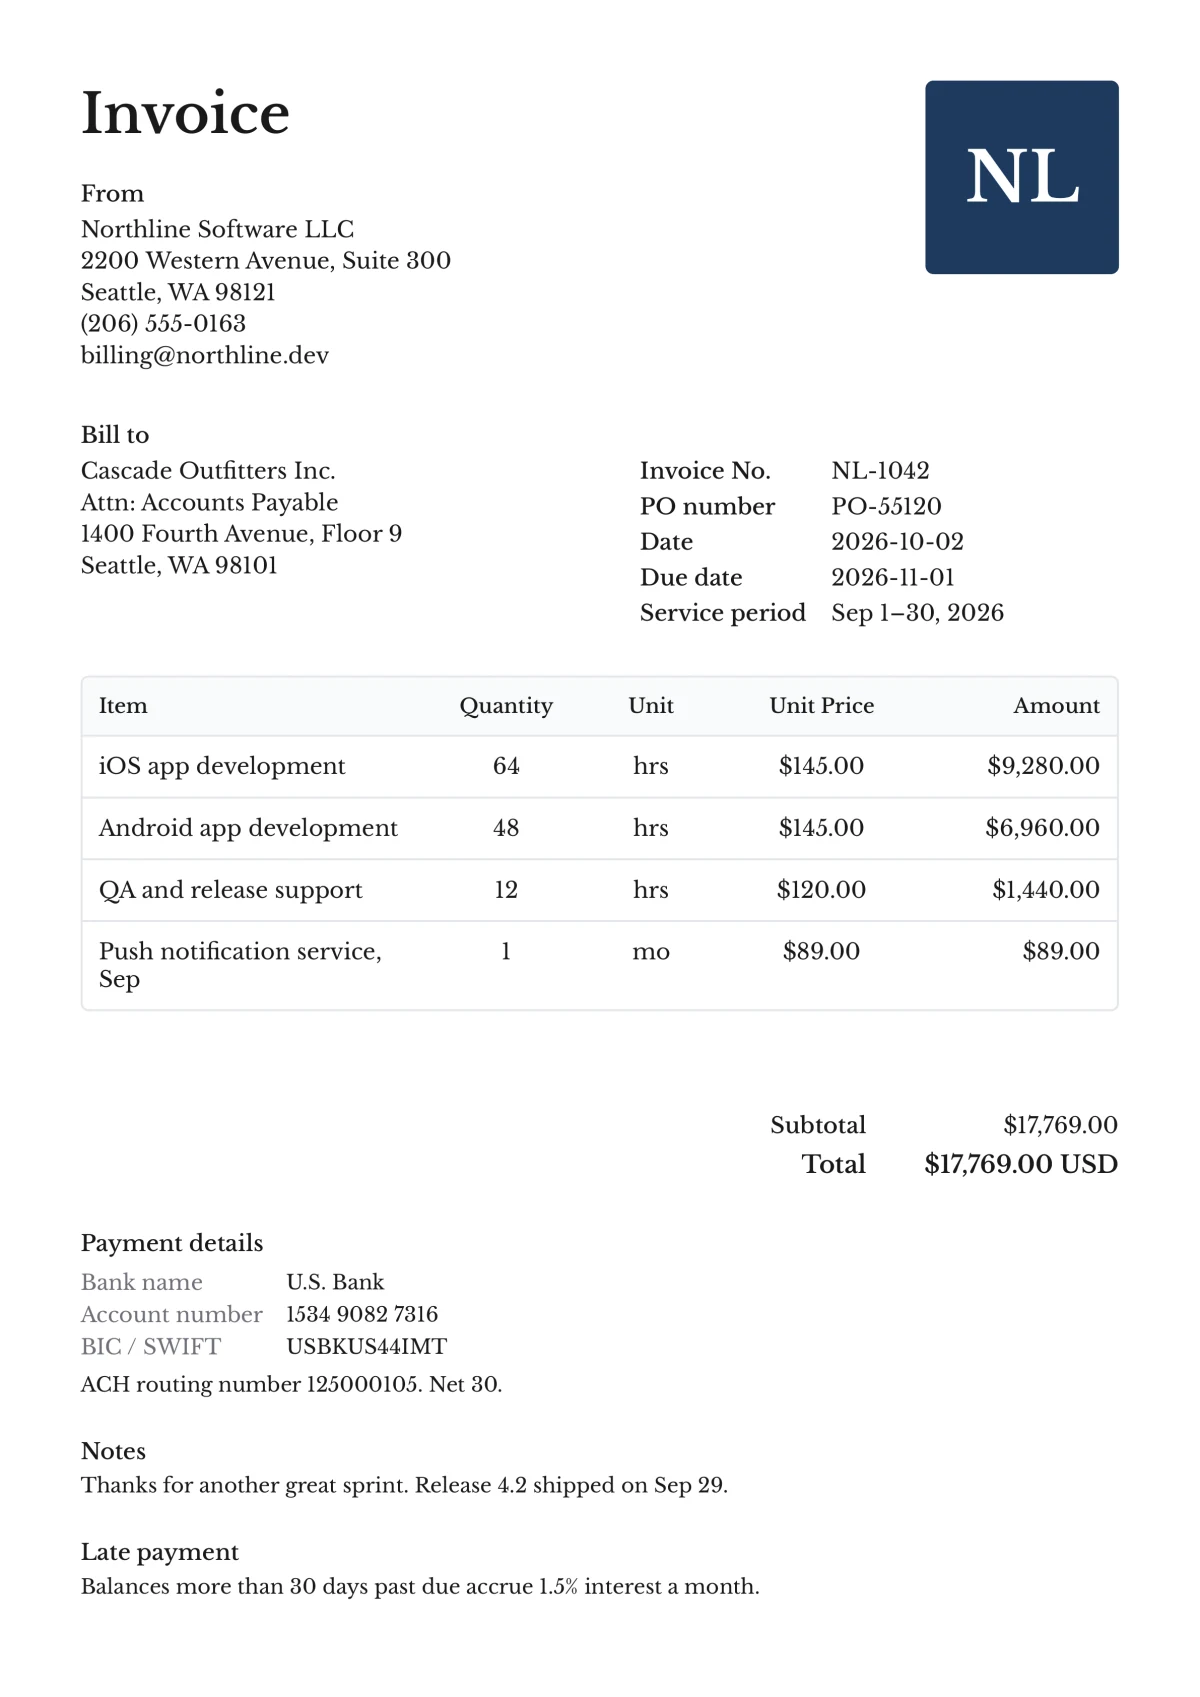
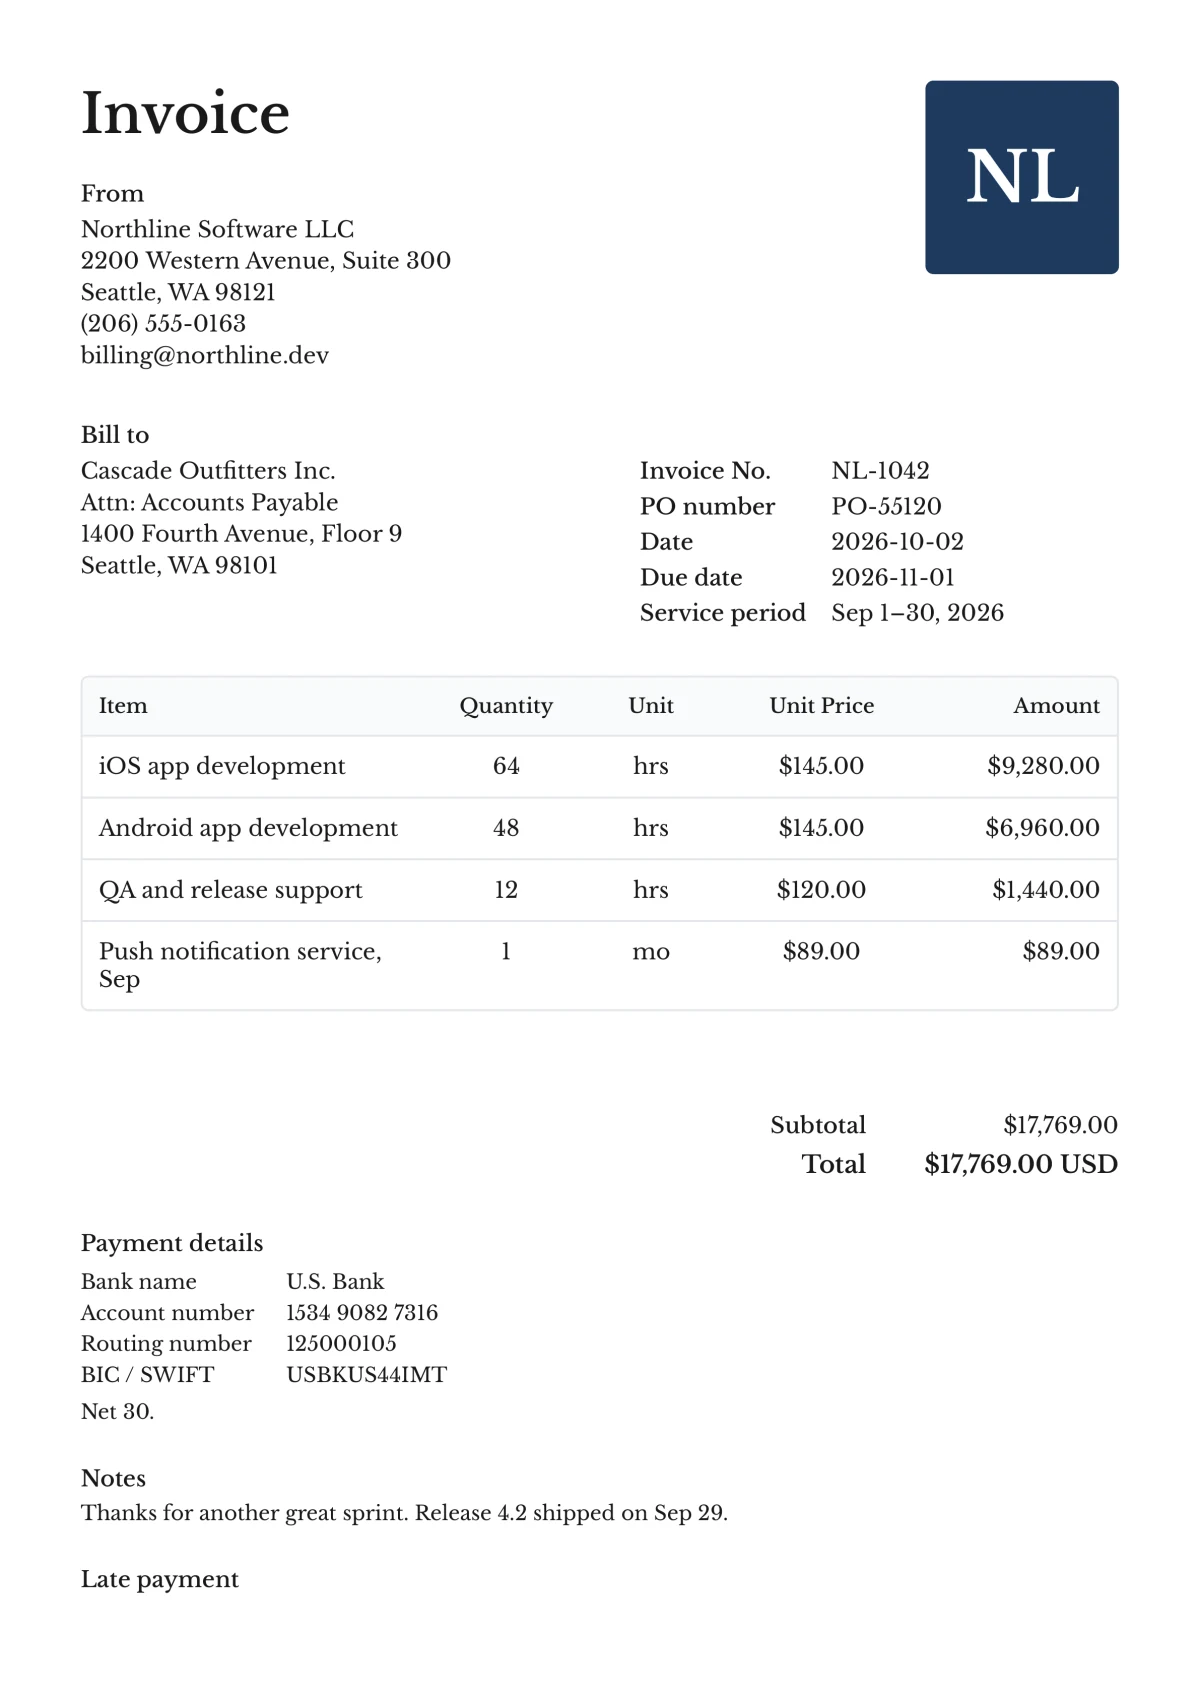
Add routing number to payment details

Changed region(s): [[0.0617, 0.7496, 0.6167, 0.9369]]

diff --git a/components/home/editor-preview.tsx b/components/home/editor-preview.tsx
@@ -57,7 +57,12 @@ type SampleInvoice = {
   }[];
   discountPercentage: number;
   taxPercentage: number;
-  payment: { bankName: string; accountNumber: string; bic: string };
+  payment: {
+    bankName: string;
+    accountNumber: string;
+    routingNumber: string;
+    bic: string;
+  };
   paymentInstructions: string;
   font: InvoiceFont;
   currencyCode: string;
@@ -86,10 +91,10 @@ export const HERO_SAMPLE: SampleInvoice = {
   payment: {
     bankName: "JPMorgan Chase Bank, N.A.",
     accountNumber: "483920175",
+    routingNumber: "021000021",
     bic: "CHASUS33"
   },
-  paymentInstructions:
-    "ACH routing number 021000021. Payment due within 30 days.",
+  paymentInstructions: "Payment due within 30 days.",
   font: "geist",
   currencyCode: "USD"
 };
@@ -126,9 +131,10 @@ export const TRY_IT_SAMPLE: SampleInvoice = {
   payment: {
     bankName: "Wells Fargo Bank, N.A.",
     accountNumber: "7429183056",
+    routingNumber: "111900659",
     bic: "WFBIUS6S"
   },
-  paymentInstructions: "ACH routing number 111900659. Net 15.",
+  paymentInstructions: "Net 15.",
   font: "geist",
   currencyCode: "USD"
 };
@@ -159,9 +165,10 @@ export const FILL_SAMPLE: SampleInvoice = {
   payment: {
     bankName: "Citibank, N.A.",
     accountNumber: "40871236",
+    routingNumber: "271070801",
     bic: "CITIUS33"
   },
-  paymentInstructions: "ACH routing number 271070801. Net 30.",
+  paymentInstructions: "Net 30.",
   font: "geist",
   currencyCode: "USD"
 };
@@ -192,9 +199,10 @@ export const KEEP_SAMPLE: SampleInvoice = {
   payment: {
     bankName: "U.S. Bank",
     accountNumber: "153710294488",
+    routingNumber: "123000220",
     bic: "USBKUS44IMT"
   },
-  paymentInstructions: "ACH routing number 123000220. Net 30.",
+  paymentInstructions: "Net 30.",
   font: "geist",
   currencyCode: "USD"
 };
@@ -961,6 +969,11 @@ function PaymentDetails({
       value: invoice.payment.accountNumber,
       placeholder: ""
     },
+    {
+      label: "Routing number",
+      value: invoice.payment.routingNumber,
+      placeholder: ""
+    },
     { label: "IBAN", value: "", placeholder: "GB29 NWBK 6016 1331 9268 19" },
     { label: "BIC / SWIFT", value: invoice.payment.bic, placeholder: "" },
     { label: "Sort code", value: "", placeholder: "12-34-56" }
@@ -976,7 +989,7 @@ function PaymentDetails({
       <div className="mt-2 flex flex-col gap-1">
         {fields.map(field => (
           <div key={field.label} className="flex items-center gap-2">
-            <span className="text-paper-muted-foreground w-32 shrink-0 text-sm">
+            <span className="w-32 shrink-0" style={contentStyle}>
               {field.label}
             </span>
             <Field

diff --git a/components/pdf/invoice-pdf-payment-details.tsx b/components/pdf/invoice-pdf-payment-details.tsx
@@ -1,7 +1,6 @@
 import { StyleSheet, Text, View } from "@react-pdf/renderer";
 import type { Invoice } from "~/types";
 import { pdfRoleStyle } from "~/utils/pdf-styles";
-import { SCALE_FACTOR } from "~/utils/scale-font-size";
 
 const styles = StyleSheet.create({
   section: {
@@ -32,6 +31,7 @@ const styles = StyleSheet.create({
 const FIELDS = [
   { key: "bankName", label: "Bank name" },
   { key: "accountNumber", label: "Account number" },
+  { key: "routingNumber", label: "Routing number" },
   { key: "iban", label: "IBAN" },
   { key: "bic", label: "BIC / SWIFT" },
   { key: "sortCode", label: "Sort code" }
@@ -45,17 +45,8 @@ export function InvoicePdfPaymentDetails({ invoice }: { invoice: Invoice }) {
     return null;
   }
 
-  // The editor renders each label as a plain `text-sm text-zinc-500` span (a
-  // fixed 14px that never scales with the theme). Scale it to PDF without the
-  // rounding scaleFontSize applies: rounding 10.5 up to 11 would swallow the
-  // gap to the section heading (11pt on medium, 12pt on large), which the
-  // editor keeps because its heading scales while the label stays 14px.
-  const labelStyle = pdfRoleStyle(theme, "termsContent", {
-    ...styles.fieldLabel,
-    fontSize: 14 * SCALE_FACTOR,
-    fontWeight: 400,
-    color: "#71717a"
-  });
+  // Labels and values share the body text style, so they read as one block.
+  const labelStyle = pdfRoleStyle(theme, "termsContent", styles.fieldLabel);
   const valueStyle = pdfRoleStyle(theme, "termsContent", styles.fieldValue);
 
   return (

diff --git a/schema/invoice.ts b/schema/invoice.ts
@@ -53,6 +53,7 @@ const DEFAULT_PAYMENT_DETAILS = {
   label: "Payment details",
   bankName: "",
   accountNumber: "",
+  routingNumber: "",
   iban: "",
   bic: "",
   sortCode: "",
@@ -97,14 +98,15 @@ function textSectionSchema(defaultLabel: string) {
 
 // Payment details mirror the terms section: a customizable label plus content.
 // The content is a set of free-text fields so they work across banking
-// conventions (bank name, account number, IBAN, BIC/SWIFT, sort code) alongside
-// free-text instructions (e.g. "Net 30", a PayPal address). An all-empty section
-// is suppressed at render.
+// conventions (bank name, account and routing numbers, IBAN, BIC/SWIFT, sort
+// code) alongside free-text instructions (e.g. "Net 30", a PayPal address). An
+// all-empty section is suppressed at render.
 const paymentDetailsSchema = z
   .object({
     label: z.string().catch(DEFAULT_PAYMENT_DETAILS.label),
     bankName: z.string().catch(""),
     accountNumber: z.string().catch(""),
+    routingNumber: z.string().catch(""),
     iban: z.string().catch(""),
     bic: z.string().catch(""),
     sortCode: z.string().catch(""),

diff --git a/components/editor/invoice-payment-details.tsx b/components/editor/invoice-payment-details.tsx
@@ -7,6 +7,7 @@ import { getTextStyles } from "~/utils/get-text-styles";
 const PAYMENT_FIELDS = [
   { key: "bankName", label: "Bank name", placeholder: "Acme Bank" },
   { key: "accountNumber", label: "Account number", placeholder: "12345678" },
+  { key: "routingNumber", label: "Routing number", placeholder: "021000021" },
   {
     key: "iban",
     label: "IBAN",
@@ -71,7 +72,10 @@ function PaymentDetailsField({
     <div className="flex items-center gap-2">
       <label
         htmlFor={fieldId}
-        className="text-paper-muted-foreground w-32 shrink-0 text-sm"
+        className="w-32 shrink-0"
+        style={getTextStyles({
+          settings: getRoleSettings(theme, "termsContent")
+        })}
       >
         {label}
       </label>

diff --git a/scripts/render-homepage-invoices.tsx b/scripts/render-homepage-invoices.tsx
@@ -111,10 +111,11 @@ const PAYMENT_INVOICE = sampleInvoice({
     label: "Payment details",
     bankName: "Bank of America, N.A.",
     accountNumber: "3250 8874 1196",
+    routingNumber: "121000358",
     iban: "",
     bic: "BOFAUS3N",
     sortCode: "",
-    terms: "ACH routing number 121000358. Due within 30 days."
+    terms: "Due within 30 days."
   }
 });
 
@@ -173,10 +174,11 @@ const CLOSING_INVOICE = sampleInvoice({
     label: "Payment details",
     bankName: "U.S. Bank",
     accountNumber: "1534 9082 7316",
+    routingNumber: "125000105",
     iban: "",
     bic: "USBKUS44IMT",
     sortCode: "",
-    terms: "ACH routing number 125000105. Net 30."
+    terms: "Net 30."
   },
   notes: {
     label: "Notes",

diff --git a/app/routes/index.tsx b/app/routes/index.tsx
@@ -131,7 +131,7 @@ const FEATURES: {
   {
     title: "Payment details clients can use",
     description:
-      "Bank name, account number, IBAN, BIC / SWIFT and sort code, laid out so your client can pay without asking.",
+      "Bank name, account and routing numbers, IBAN, BIC / SWIFT and sort code, laid out so your client can pay without asking.",
     specimen: <PaymentSpecimen />,
     isPageCrop: true
   }

diff --git a/components/home/pdf-renders.ts b/components/home/pdf-renders.ts
@@ -16,7 +16,7 @@ export const PDF_RENDERS = {
   // The payment details, from the page's left edge.
   payment: {
     src: "/home/invoice-payment.webp",
-    crop: { x: 0, y: 671, width: 419.7, height: 209.85 }
+    crop: { x: 0, y: 690, width: 419.7, height: 209.85 }
   },
   // The page's top-left corner: the title, the sender and the client.
   send: {

diff --git a/utils/build-invoice-view-model.test.ts b/utils/build-invoice-view-model.test.ts
@@ -53,6 +53,7 @@ function makeInvoice(overrides: Partial<Invoice> = {}): Invoice {
       label: "Payment details",
       bankName: "",
       accountNumber: "",
+      routingNumber: "",
       iban: "",
       bic: "",
       sortCode: "",

diff --git a/utils/calculate-invoice-totals.test.ts b/utils/calculate-invoice-totals.test.ts
@@ -57,6 +57,7 @@ function makeInvoice(overrides: Partial<Invoice> = {}): Invoice {
       label: "Payment details",
       bankName: "",
       accountNumber: "",
+      routingNumber: "",
       iban: "",
       bic: "",
       sortCode: "",

diff --git a/utils/seed-dummy-invoice.ts b/utils/seed-dummy-invoice.ts
@@ -228,6 +228,7 @@ function buildPaymentDetails(sellerName: string): InvoicePaymentDetails {
     label: "Payment details",
     bankName: bank.name,
     accountNumber,
+    routingNumber: "",
     iban,
     bic,
     sortCode,

diff --git a/schema/migrations.test.ts b/schema/migrations.test.ts
@@ -186,6 +186,7 @@ describe("migrateInvoiceData", () => {
       label: "Payment details",
       bankName: "",
       accountNumber: "",
+      routingNumber: "",
       iban: "",
       bic: "",
       sortCode: "",

diff --git a/stores/invoice-store.ts b/stores/invoice-store.ts
@@ -107,6 +107,7 @@ export const invoiceDefault: Invoice = {
     label: "Payment details",
     bankName: "",
     accountNumber: "",
+    routingNumber: "",
     iban: "",
     bic: "",
     sortCode: "",
